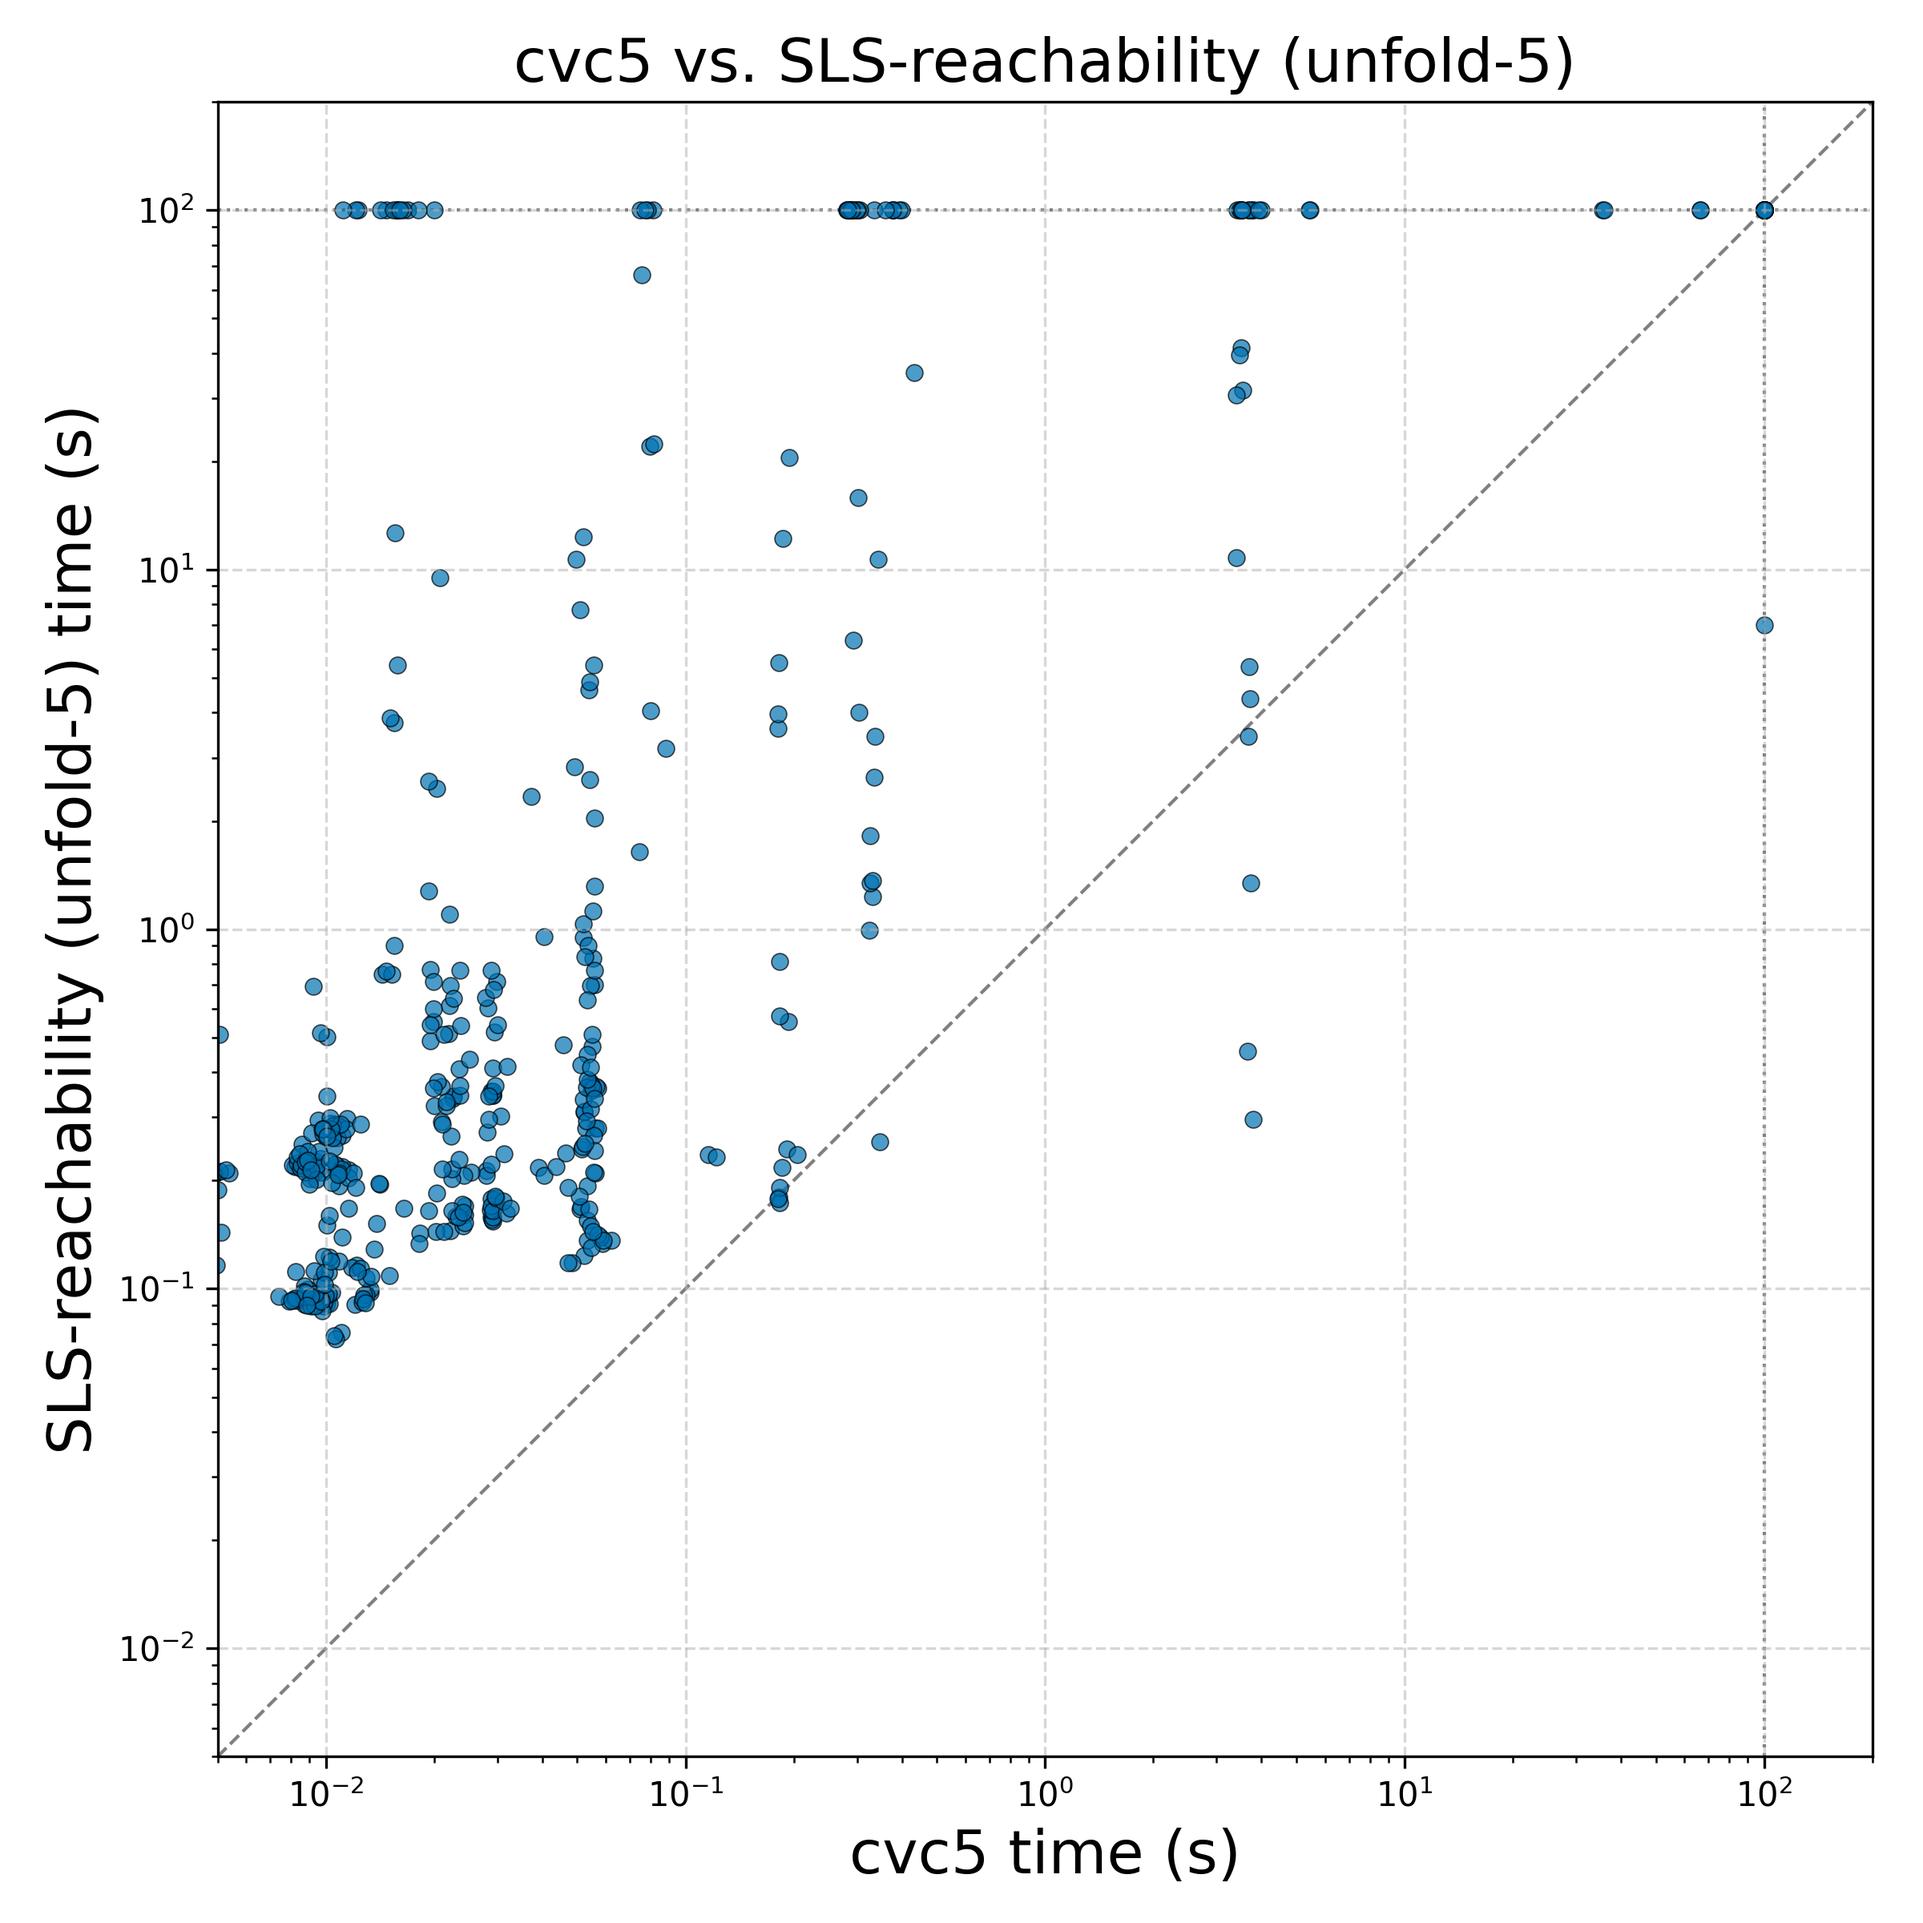
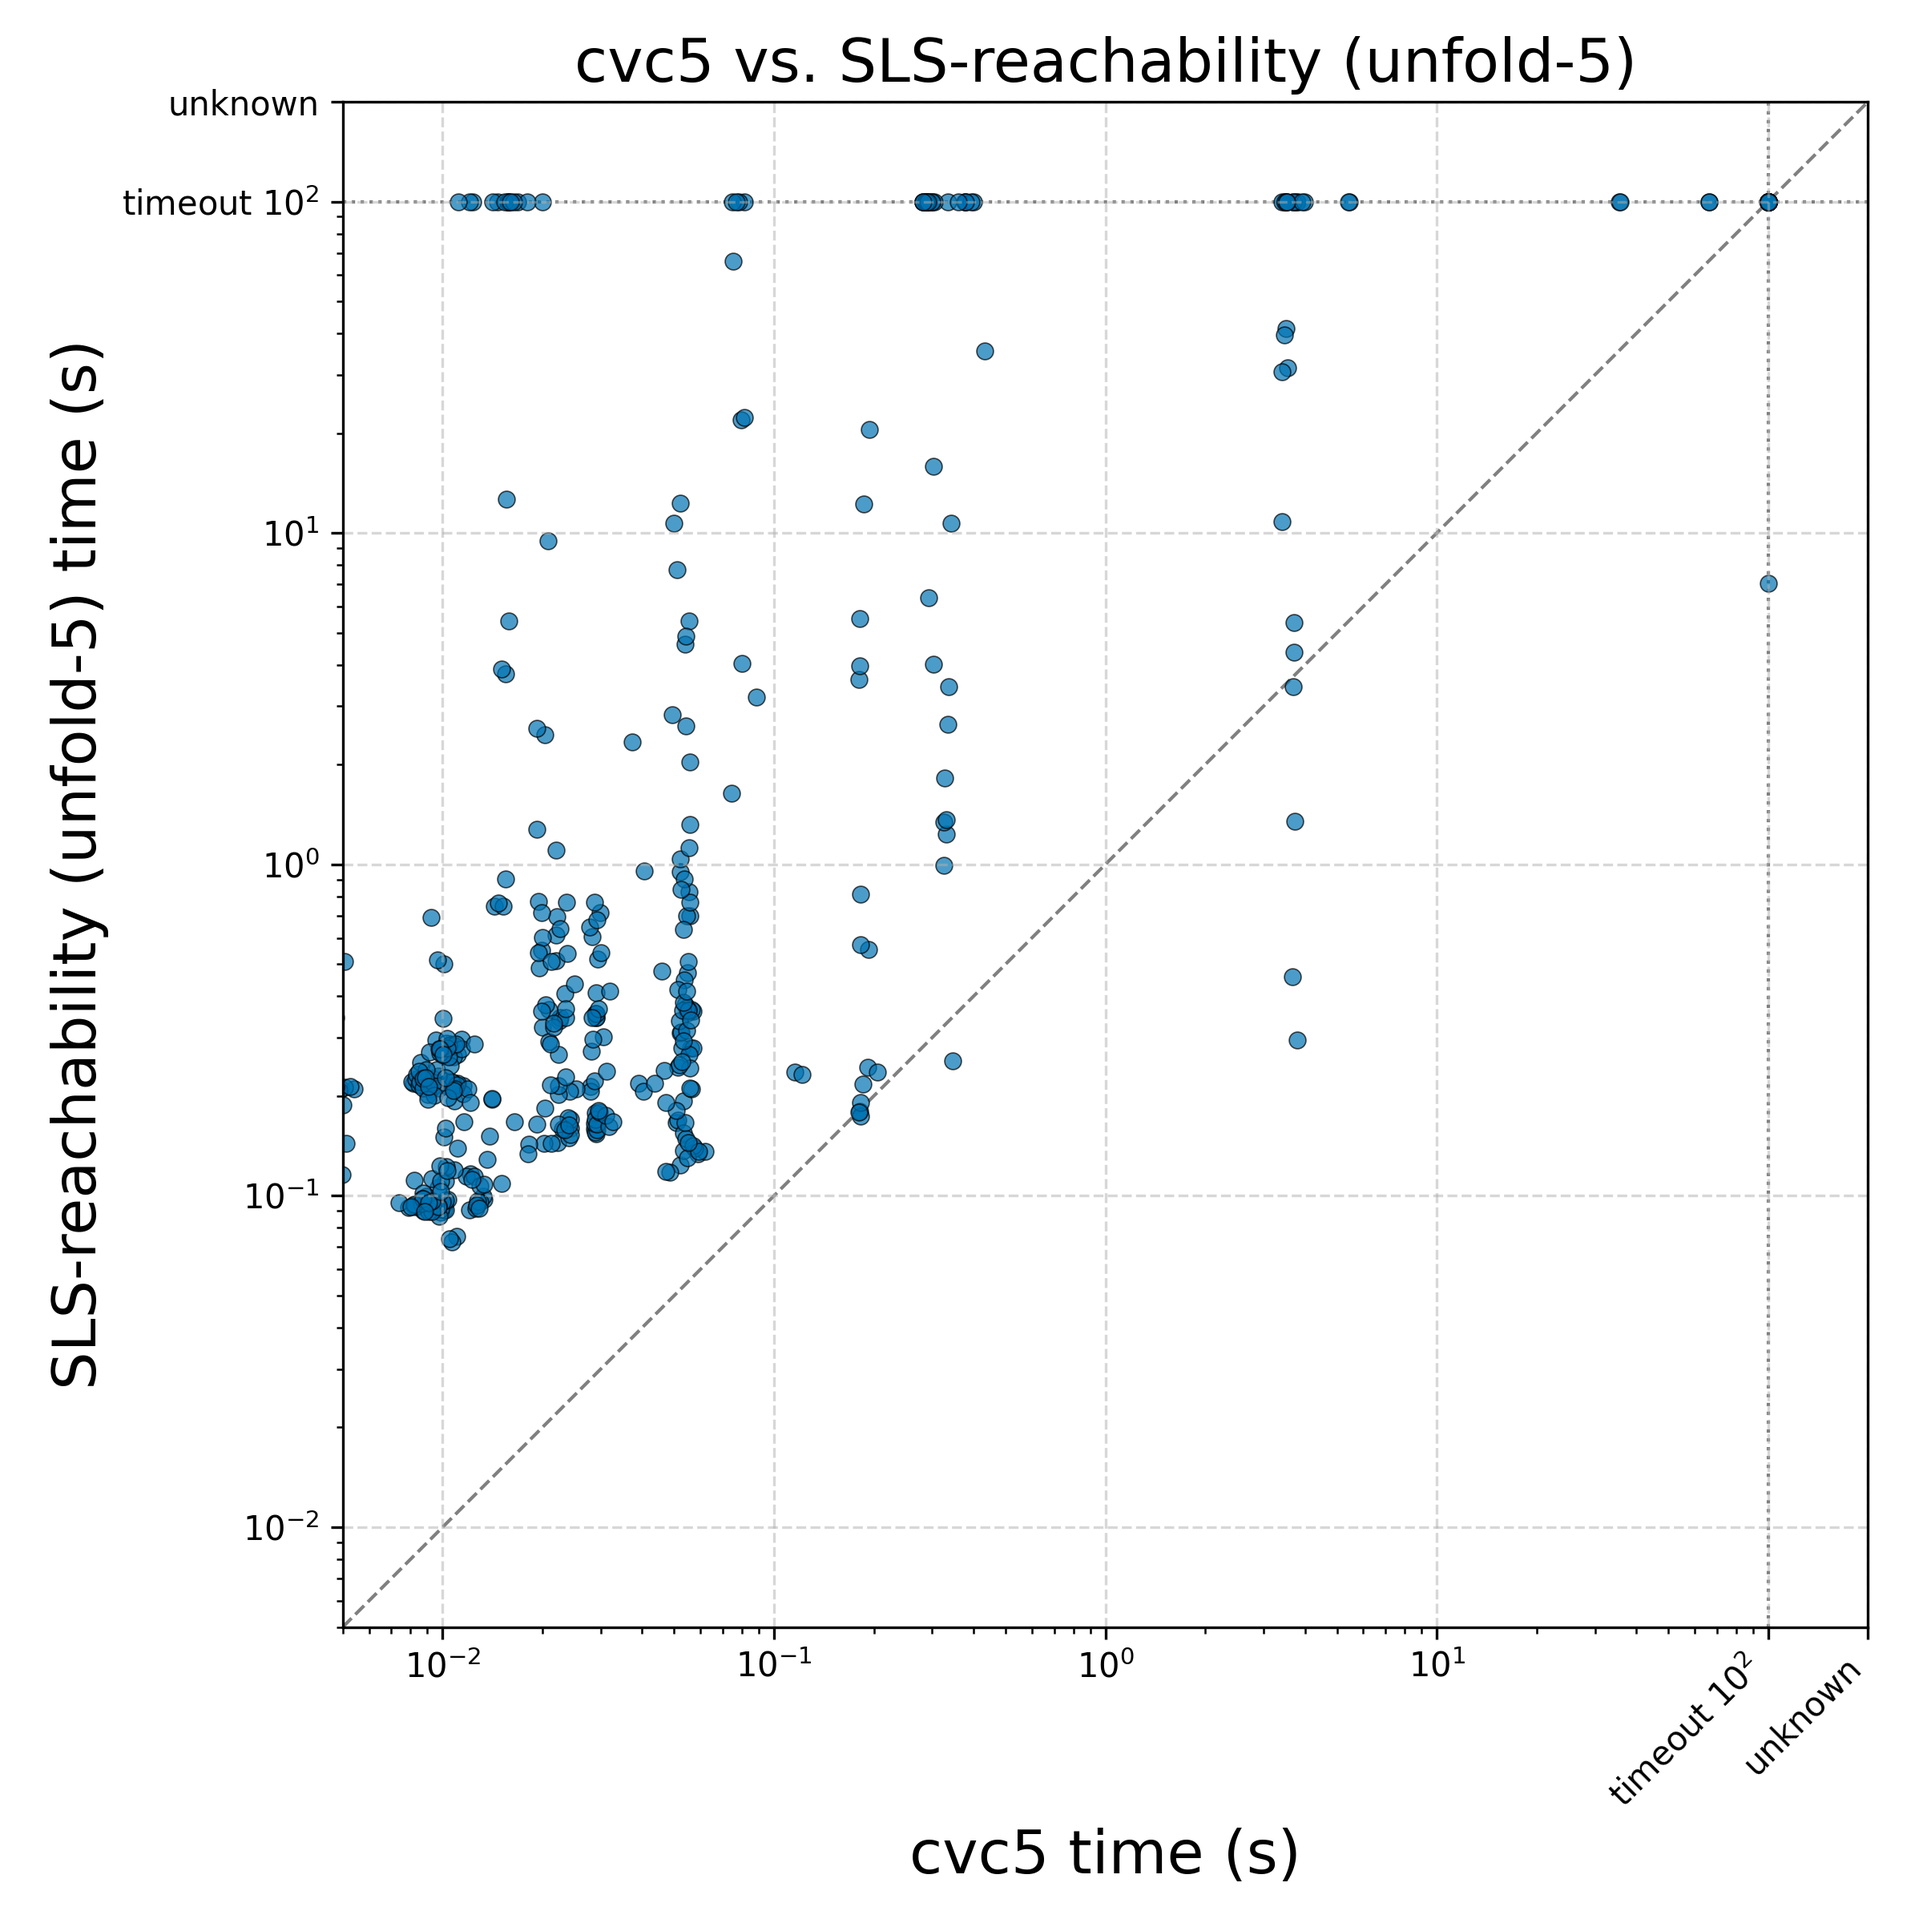
unknown line

diff --git a/plot.py b/plot.py
@@ -88,22 +88,41 @@ def scatter_plot(source_file, output, x_solver, y_solver, color, marker, timeout
     # === Load CSV ===
     df = pd.read_csv(source_file)
 
-    # Per-instance times; unsolved instances (timeout/unknown) are placed at
-    # the timeout value so they appear on the plot boundary.
+    lims = (5e-3, timeout * 2)
+    edge = lims[1]  # the axis boundary -- the line that closes the box
+
+    # Per-instance times: solved instances keep their duration (capped at
+    # the timeout), timeouts sit ON the timeout line, and unknowns sit on
+    # the box edge, so the two unsolved outcomes are visually distinct.
+    # Solved times never exceed the timeout, so the band between the
+    # timeout line and the box edge stays empty except for those markers.
+    def results(prefix):
+        return df[f"{prefix} result"].astype(str).str.strip().str.lower()
+
     def times(prefix):
-        result = df[f"{prefix} result"].astype(str).str.strip().str.lower()
+        result = results(prefix)
         duration = pd.to_numeric(df[f"{prefix} duration"], errors="coerce")
-        return duration.where(result.isin(["sat", "unsat"]), timeout).clip(upper=timeout)
+        solved = duration.where(result.isin(["sat", "unsat"]), timeout)
+        return solved.clip(upper=timeout).mask(result == "unknown", edge)
+
+    x, y = times(x_prefix), times(y_prefix)
+    unknown = (results(x_prefix) == "unknown") | (results(y_prefix) == "unknown")
 
     # === Plot ===
     plt.figure(figsize=(8, 8))
     ax = plt.gca()
 
-    ax.scatter(times(x_prefix), times(y_prefix), color=color, marker=marker,
+    ax.scatter(x[~unknown], y[~unknown], color=color, marker=marker,
                s=25, alpha=0.7, edgecolors="black", linewidths=0.4)
+    # Instances with an unknown result, drawn as their own scatter (same
+    # shape as the rest for now -- change this call's marker to e.g. "x"
+    # to make them distinct). clip_on lets the markers sit fully visible
+    # on the box edge.
+    ax.scatter(x[unknown], y[unknown], color=color, marker=marker,
+               s=25, alpha=0.7, edgecolors="black", linewidths=0.4,
+               clip_on=False, zorder=3)
 
-    # Diagonal and timeout boundaries
-    lims = (5e-3, timeout * 2)
+    # Diagonal, the timeout lines and the unknown (box edge) lines
     ax.plot(lims, lims, color="gray", linestyle="--", linewidth=1, zorder=0)
     ax.axvline(timeout, color="gray", linestyle=":", linewidth=1, zorder=0)
     ax.axhline(timeout, color="gray", linestyle=":", linewidth=1, zorder=0)
@@ -113,6 +132,28 @@ def scatter_plot(source_file, output, x_solver, y_solver, color, marker, timeout
     ax.set_xlim(lims)
     ax.set_ylim(lims)
     ax.set_aspect("equal")
+
+    # The timeout line and the box edge (unknown) are labeled on the
+    # axes as tick labels, like the numbers. The numeric decade ticks
+    # stop below the timeout (which sits at 10^2) so labels never
+    # collide; the two word ticks on x are rotated to clear each other.
+    decades = [10.0 ** k
+               for k in range(int(np.ceil(np.log10(lims[0]))),
+                              int(np.floor(np.log10(timeout))) + 1)]
+    while decades and decades[-1] >= timeout:
+        decades.pop()
+    ticks = decades + [timeout, edge]
+    from matplotlib.ticker import LogFormatterMathtext
+    log_format = LogFormatterMathtext()
+    labels = [log_format(d) for d in decades] \
+        + ["timeout {}".format(log_format(timeout)), "unknown"]
+    ax.set_xticks(ticks)
+    ax.set_xticklabels(labels)
+    ax.set_yticks(ticks)
+    ax.set_yticklabels(labels)
+    for label in ax.get_xticklabels()[-2:]:
+        label.set_rotation(45)
+        label.set_ha("right")
 
     ax.set_xlabel(f"{x_label} time (s)", fontsize=18)
     ax.set_ylabel(f"{y_label} time (s)", fontsize=18)
